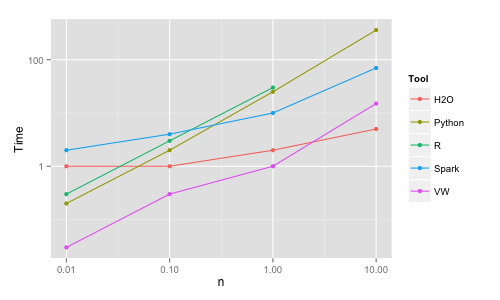
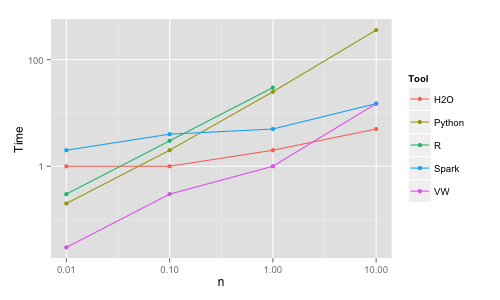
spark linear with sparse

diff --git a/README.md b/README.md
@@ -94,14 +94,15 @@ H2O     | 10K  |      1        |   1      | 69.6
         | 10M  |      5        |   3      | 71.0
 Spark   | 10K  |      2        |   10     | 66.2
         | 100K |      4        |   12     | 69.7
-        | 1M   |      10       |   20     | 70.3
-        | 10M  |   crash/70    |          | 70.4
+        | 1M   |      5        |   20     | 70.3
+        | 10M  |      15       |   20     | 70.4
 
-For the largest size of *n* = 10M, the R package crashes, while Python anf Spark crash on the 60GB machine, but complete
+For the largest size of *n* = 10M, the R package crashes, while Python crashes on the 60GB machine, but completes
 when RAM is increased to 250GB. The Vowpal Wabbit (VW) running times are reported in the table for 10 passes (online learning) 
 over the data for 
 the smaller sizes. While VW can be run on multiple cores, it has been run here in 
-the simplest possible way (1 core).
+the simplest possible way (1 core). Also keep in mind that VW reads the data on the fly while for the other tools
+the times reported exclude reading the data into memory.
 
 One can play with various parameters (such as regularization) and even do some search in the parameter space with
 cross-validation to get better accuracy. However, very quick experimentation shows that at least for the larger
@@ -113,8 +114,9 @@ sizes regularization does not increase accuracy significantly (which is expected
 The main conclusion here is that is is trivial to train linear models even for *n* = 10M rows virtually in
 any of these tools on a single machine in a matter of seconds. 
 H2O and VW are the most memory efficient (VW needs only 1 observation in memory
-at a time therefore is the ultimately scalable solution). H2O and VW are also the fastest.
-H2O, VW and the Python implementation seems to be the most accurate (H2O's outlying accuracy for *n* = 0.01M
+at a time therefore is the ultimately scalable solution). H2O and VW are also the fastest (for VW the time reported
+includes the time to read the data as it is read on the fly).
+H2O, VW and the R/Python implementation seems to be the most accurate (H2O's outlying accuracy for *n* = 0.01M
 is due to adding regularization automatically and should not be taken into
 consideration). In fact, the differences in memory efficiency and speed will start to really matter only for
 larger sizes (beyond the scope of this study). 
